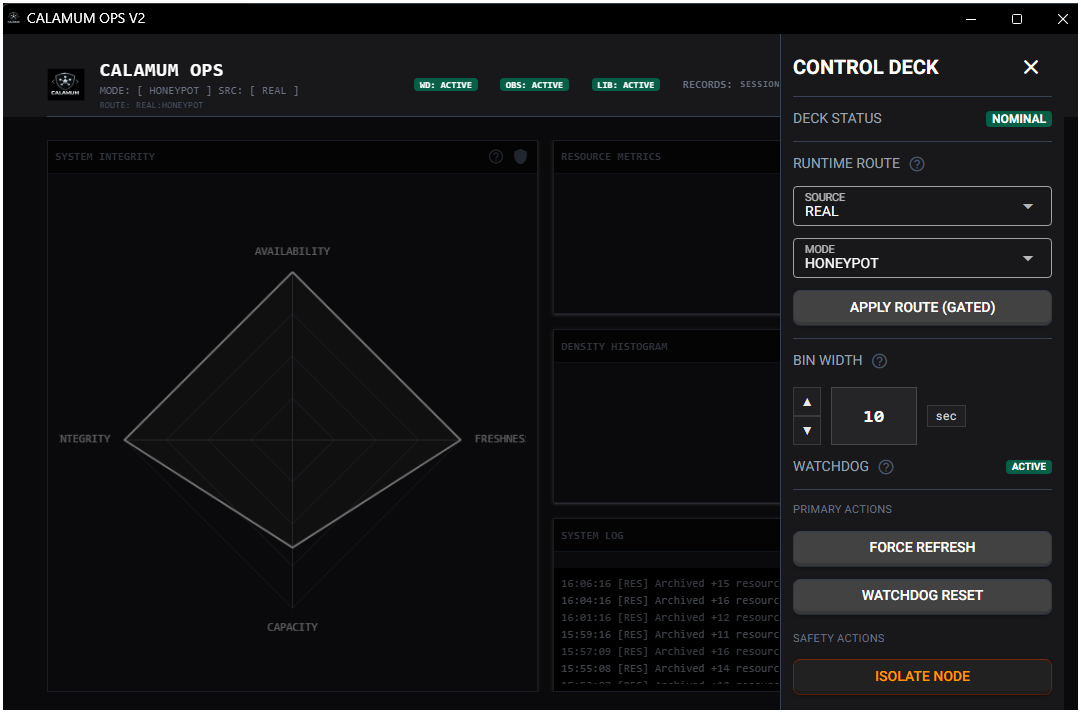
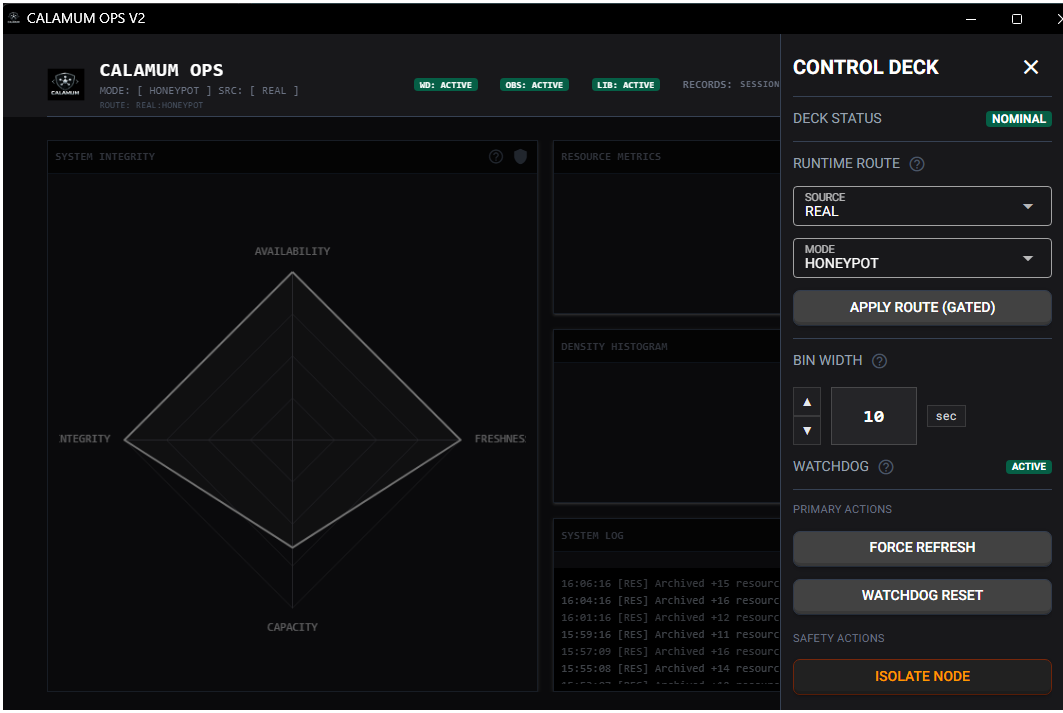
observer: outward facing visualization adjustments

diff --git a/README.md b/README.md
@@ -183,11 +183,11 @@ These views are presentation surfaces. Runtime truth comes from `observerctl`, w
 
 ### CLI system log view
 
-<img src="assets/branding/syslog_scroll.png" alt="CLI System Log" width="600">
+<img src="assets/branding/syslog_scroll.png" alt="CLI System Log" width="400">
 
 ### GUI dashboard kill switch
 
-<img src="assets/branding/gui_kill_switch.png" alt="GUI Dashboard Kill Switch" width="600">
+<img src="assets/branding/gui_kill_switch.png" alt="GUI Dashboard Kill Switch" width="300">
 
 ## Getting started
 
